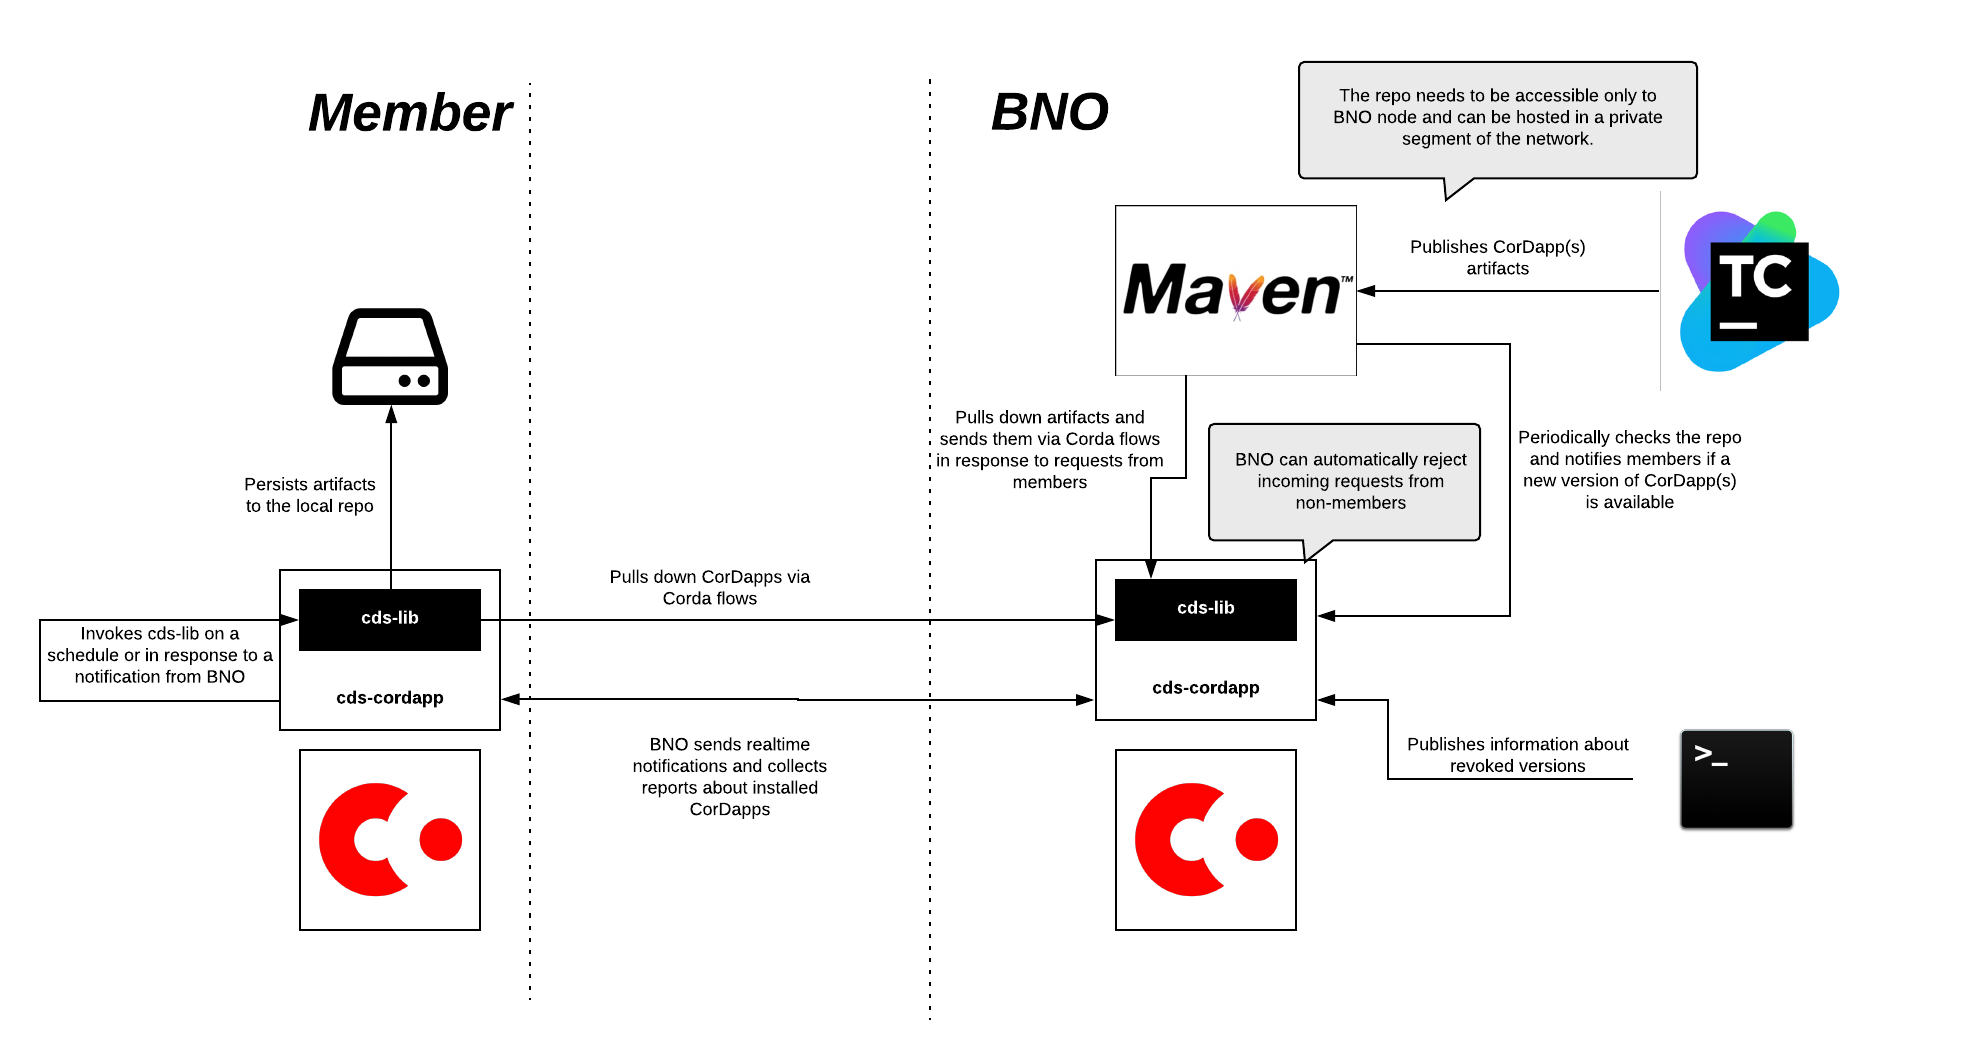
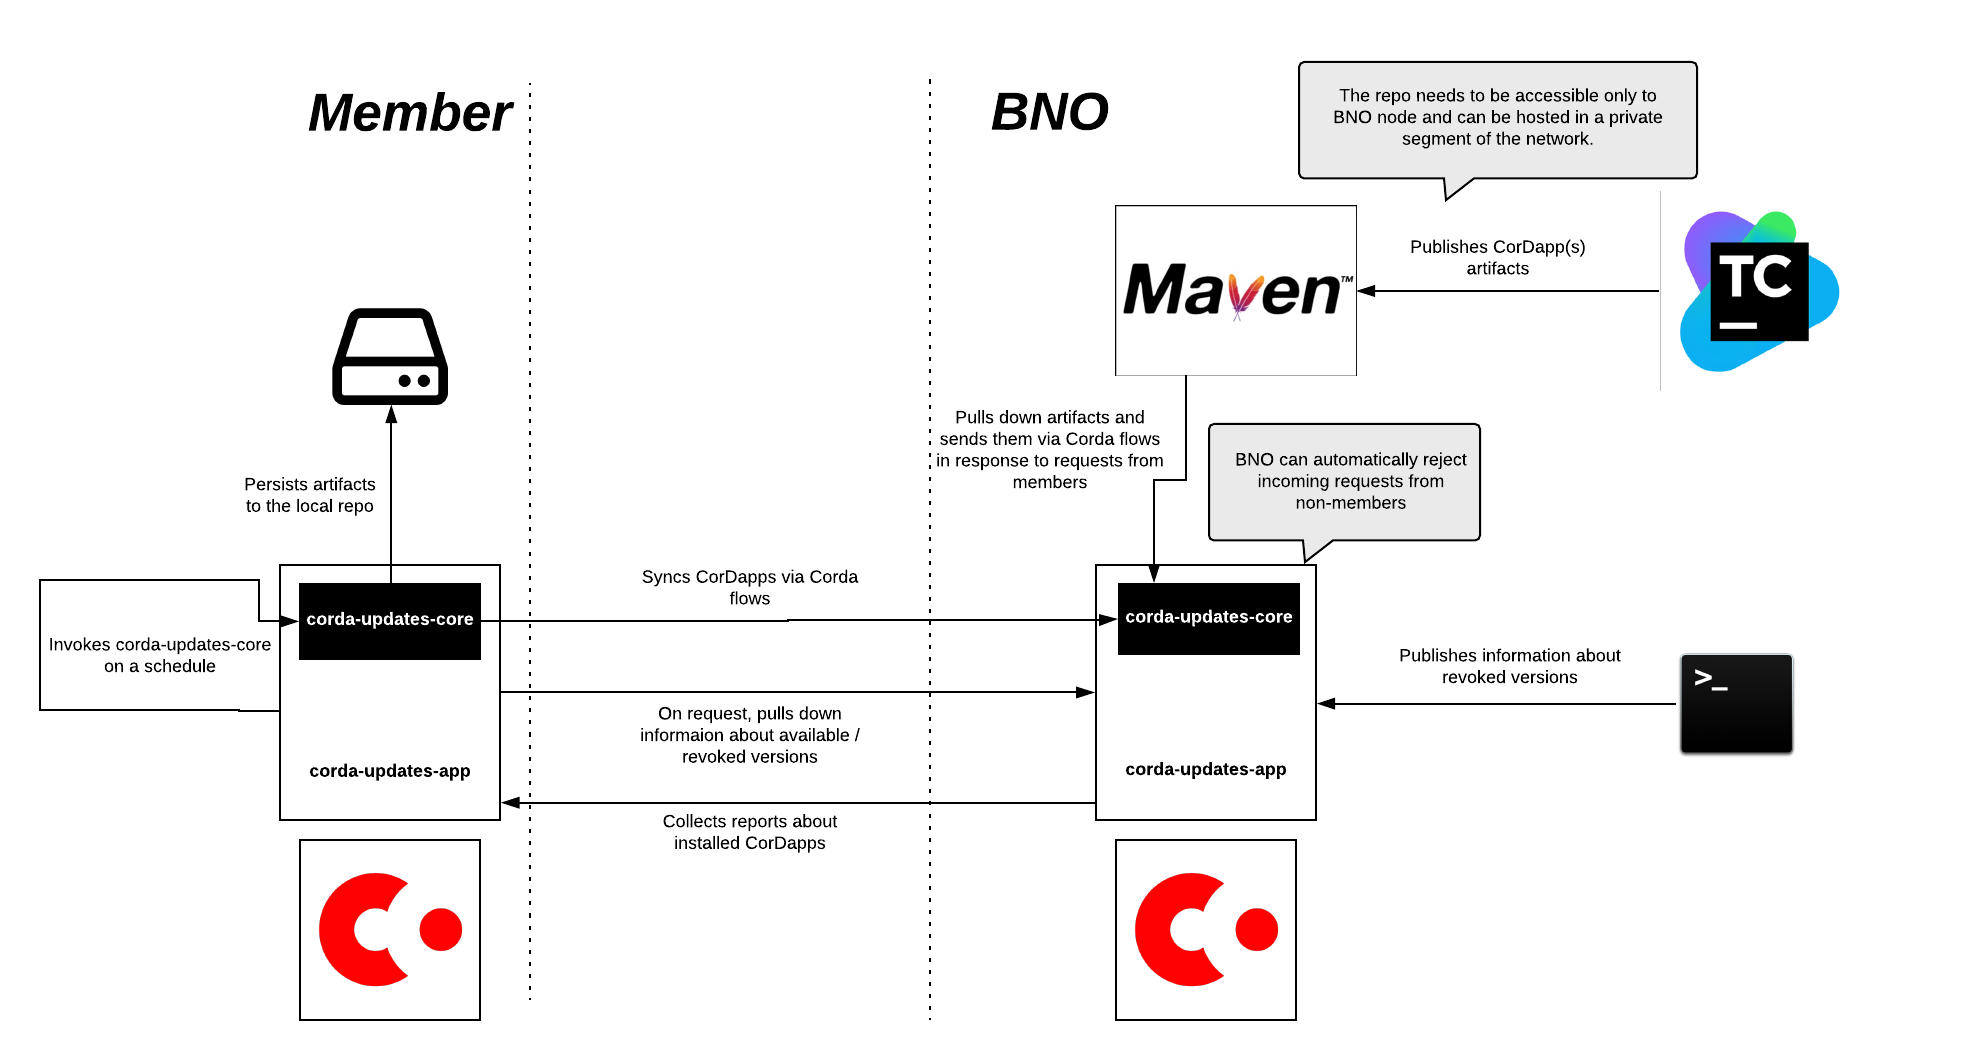
Changes according to the reviewers comments

diff --git a/bn-apps/cordapp-updates-distribution/design/design.md b/bn-apps/cordapp-updates-distribution/design/design.md
@@ -55,62 +55,53 @@ The proposal is to distribute CorDapps via Maven repositories. This would allow 
 
 However, Maven doesn't support some of the required features, such as notifications, revocations, version reporting and etc. To address these requirements CDS will be implemented as two components:
 
-* **CDS library (cds-lib)** - a wrapper around Maven Resolver, that will be handling all Maven-related interactions, such as artifact resolution, downloading and others. `cds-lib` will include custom transport implementations and will be usable as a library or from a command line.
-* **CDS CorDapp (cds-cordapp)** - a CorDapp that will provide scheduling, notification, revocation and reporting functionalities on top of the `cds-lib`.
+* **CDS library (corda-updates-core)** - a wrapper around Maven Resolver, that will be handling all Maven-related interactions, such as artifact resolution, downloading and others. `corda-updates-core` will include custom transport implementations and will be usable as a library or from a command line.
+* **CDS CorDapp (corda-updates-app)** - a CorDapp that will provide scheduling, revocation and reporting functionalities on top of the `corda-updates-core`.
 
 > CDS won't natively support *release channels*. Release channels can be simulated by using multiple Maven repositories (a repo per channel). Users can sync down different remote repositories to different local locations and then manually install a desired version of CorDapp to their nodes.
 
-##### cds-lib
+##### corda-updates-core
 
-`cds-lib` is a convenience wrapper around Maven Resolver. It will support full Maven coordinates, in the format of `<groupId>:<artifactId>[:<extension>[:<classifier>]]:<version>` as well as version ranges. Version ranges will be specifiable in mathematical range notation, i.e. "[1.0,2.0)", "[1.0,)" or "[1.0]". Range queries are supported by Maven Resolver out-of-the-box and will not require extra development efforts. `cds-lib` will allow to:
+`corda-updates-core` is a convenience wrapper around Maven Resolver. It will support full Maven coordinates, in the format of `<groupId>:<artifactId>[:<extension>[:<classifier>]]:<version>` as well as version ranges. Version ranges will be specifiable in mathematical range notation, i.e. "[1.0,2.0)", "[1.0,)" or "[1.0]". Range queries are supported by Maven Resolver out-of-the-box and will not require extra development efforts. `corda-updates-core` will allow to:
 * Fetch metadata about a single or a range of versions from a remote Maven repository.
-* Download a single or a range of versions from a remote repository. `cds-lib` is packaging-type agnostic and can be used to pull down any type of artifacts from any Maven2 compatible repository. Support of classifiers will allow devs to publish CorDapps targeting different hardware / software configurations.
+* Download a single or a range of versions from a remote repository. `corda-updates-core` is packaging-type agnostic and can be used to pull down any type of artifacts from any Maven2 compatible repository. Support of classifiers will allow devs to publish CorDapps targeting different hardware / software configurations.
 
-`cds-lib` will support pluggable transports:
+`corda-updates-core` will support pluggable transports:
 * *HTTP(s)*. Available in Maven Resolver out-of-the-box with proxy- and repository- level authentications support.
 * *Corda Flows*. Transport implementation that allows transferring files over Corda Flows.
-* *Corda RPC*. Its essentially the same as *Corda Flows*, with the difference that the *RPC* version will be used if `cds-lib` is invoked from outside of a Corda node.
 
-`cds-lib` will be invokable from a command line, with command line parameters taking precedence over the configuration file. CLI invocation *could* look like:
+`corda-updates-core` will be invokable from a command line, with command line parameters taking precedence over the configuration file. CLI invocation *might* look like:
 
 ```
-# Will pull down a single version of cordapp and its dependencies
-> java -jar cds-lib.jar
-    -Dcordapp="com.my.company.name:corda-name:1.0"
-    -DremoteRepo="https://my-company-repo.com"
-    -DlocalRepo="/path/to/my/local/repo"
-    -Dtransport="rpc"
-    -Dconfiguration="config.properties"
-
 # Will pull down all versions of cordapps and their dependencies
-> java -jar cds-lib.jar
+> java -jar corda-updates-core.jar
     -Dcordapp="com.my.company.name:corda-name:[0,)"
     -DremoteRepo="https://my-company-repo.com"
     -DlocalRepo="/path/to/my/local/repo"
-    -Dtransport="http"
     -Dconfiguration="config.properties"
 
 ```
 
 Exact configuration parameters will be documented during the implementation.
 
-##### cds-cordapp
+##### corda-updates-app
 
-`cds-cordapp` will provide the following functionality on *top* of the `cds-lib`:
+`corda-updates-app` will provide the following functionality on *top* of the `corda-updates-core`:
 * Scheduled state for members to periodically sync their local repos with a single remote repository.
-* Flows for BNO to notify members about new CorDapp version availability. Members CorDapp will automatically attempt to download a new version.
-* Flows for BNO to notify members about CorDapp version revocations. If a version of CorDapp was revoked, members are expected to manually update their nodes to the last not-revoked version ASAP.
-* Flows for BNO to collect reports from members about CorDapp versions installed on their nodes. Only versions of CorDapps related to *this* Business Network should be reported. CDS will rely on the information provided in CorDapp `MANIFEST` files until a better API is available.
-* Flows for members to manually request lists of available / revoked versions and their descriptions from BNO.
-* Flows for BNO to optionally notify members if they have an outdated or revoked version of CorDapp installed on their nodes.
+* Flows for BNO to collect reports from members about CorDapp versions installed on their nodes. Only versions of CorDapps related to *this* Business Network should be reported. CDS will rely on the information provided in CorDapp `MANIFEST` files until a better API is available. With the future support for the *package namespace ownership*, CDS will report only cordapps that are a part of this particular Business Network.
+* Flows for members to manually request lists of revoked versions from BNO. Revocations will contain full Maven coordinates + optional description (reasons for revocation). If a version of CorDapp was revoked, members are expected to manually update their nodes to the last not-revoked version ASAP.
+* Flows for members to get a list of available CorDapp versions, which is essentially contents of the local cache.
+* Corda shell extensions to query a list of available / revoked versions or to trigger a sync manually. 
 
-> It's important to emphasise, that in the Business Networks where members host nodes by themselves, BNO can only *do their best* to encourage members to upgrade by notifying them via CDS or sending them an email. Ultimately it will be up to a member to decide on whether they would like to upgrade or not. It should be in a member's best interest to promptly upgrade as otherwise they might loose ability to transact if a CorDapp is not backwards compatible.
+> It's important to emphasise, that in the Business Networks where members host nodes by themselves, BNO can only *do their best* to encourage members to upgrade by notifying them via CDS or sending them an email. Ultimately it will be up to a member to decide on whether they would like to upgrade or not. It should be in a member's best interest to promptly upgrade as otherwise they might lose ability to transact if a CorDapp is not backwards compatible.
 
-> CorDapps can be designed to stop working if a newer version is available. This can be done by making flows to compare the current version against the list of available versions from CDS. If the current version is not the latest - the flows might refuse to start. It will be up to the CorDapp developers to utilise such technics.
+> CorDapps can be designed to stop working if a newer version is available. This can be done by making flows to compare the current version against the list of available versions from CDS. If the current version is not the latest - the flows might refuse to start. It will be up to the CorDapp developers to utilise such techniques.
+
+`corda-updates-app` will not include functionality to notify about a new update availability or a version revocation. Such information can be distributed via emails instead, as installation procedure requires manual intervention (stop-update-restart) anyway. This might be improved in the future, when hot reloading of cordapps is supported.
 
 #### High level architecture diagrams
 
-CDS can be used as a CorDapp or as a standalone library, with pluggable transports over HTTP or Corda flows. The following component architectures can be utilised:
+CDS can be used as a CorDapp or as a standalone library, with pluggable transports over HTTP or Corda flows. Sample component architectures can be found below:
 
 ##### CDS as a CorDapp with a transport over HTTP
 
@@ -119,21 +110,15 @@ CDS can be used as a CorDapp or as a standalone library, with pluggable transpor
 ##### CDS as a CorDapp with a transport over Corda Flows
 ![CDS as CorDapp](./resources/cds-as-cordapp-flows.png)
 
-##### CDS as a library over HTTP
-![CDS as library](./resources/cds-as-library-http.png)
-
-##### CDS as a library over Corda RPC
-![CDS as library](./resources/cds-as-library-rpc.png)
-
 There are no strict limitations around following one architecture or the other. BNs can mix and match depending on their requirements. While HTTP transport might seem to be an easier option, using Corda flows have a couple of benefits over it, in particular:
 * BNO will be able to host Maven in a private segment of their network, without exposing it to internet, effectively hidden behind firewalls and Corda.
-* BNO will be able to expose the repo to their BN members only by integrating `cds-cordapp` with Business Network Management Service.
+* BNO will be able to expose the repo to their BN members only by integrating `corda-updates-app` with Business Network Management Service.
 
 #### Implementation details
 
 The proposed solution will require implementation of the following components:
 
-* Custom Maven Resolver transports over flows and RPC. This will require the following interface to be implemented, which should be fairly straightforward to do:
+* Custom Maven Resolver transports over flows. This will require the following interface to be implemented, which should be fairly straightforward to do:
 ```
 public interface Transporter
     extends Closeable
@@ -145,5 +130,6 @@ public interface Transporter
     void close();
 }
 ```
+We might also have to fork Maven Resolver and add `@Suspendable` annotations to it (requires PoC). This problem will go away with Java 9.
 * Wrapper around Maven Resolver, with support of CLI interface and custom configuration parameters.
-* `cds-cordapp` with the functionality, described in the previous sections.
+* `corda-updates-app` with the functionality, described in the previous sections.
